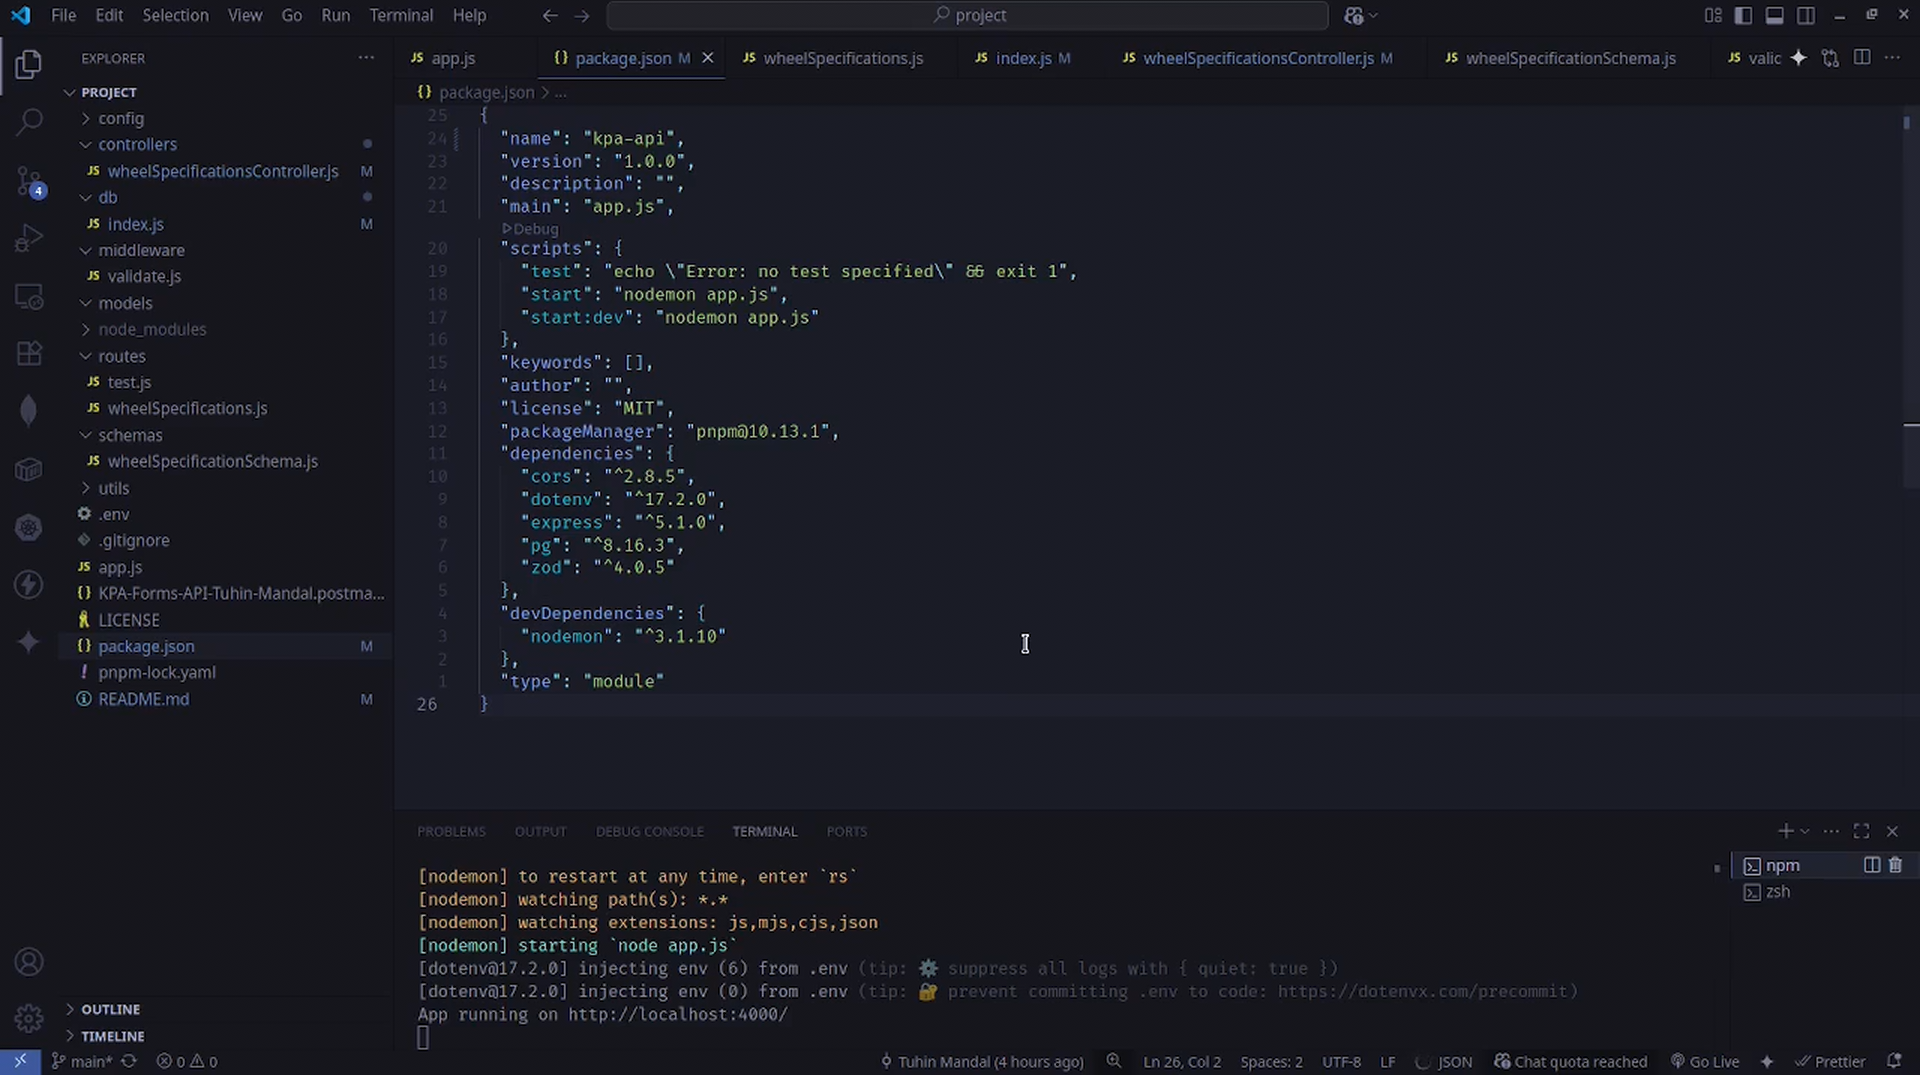
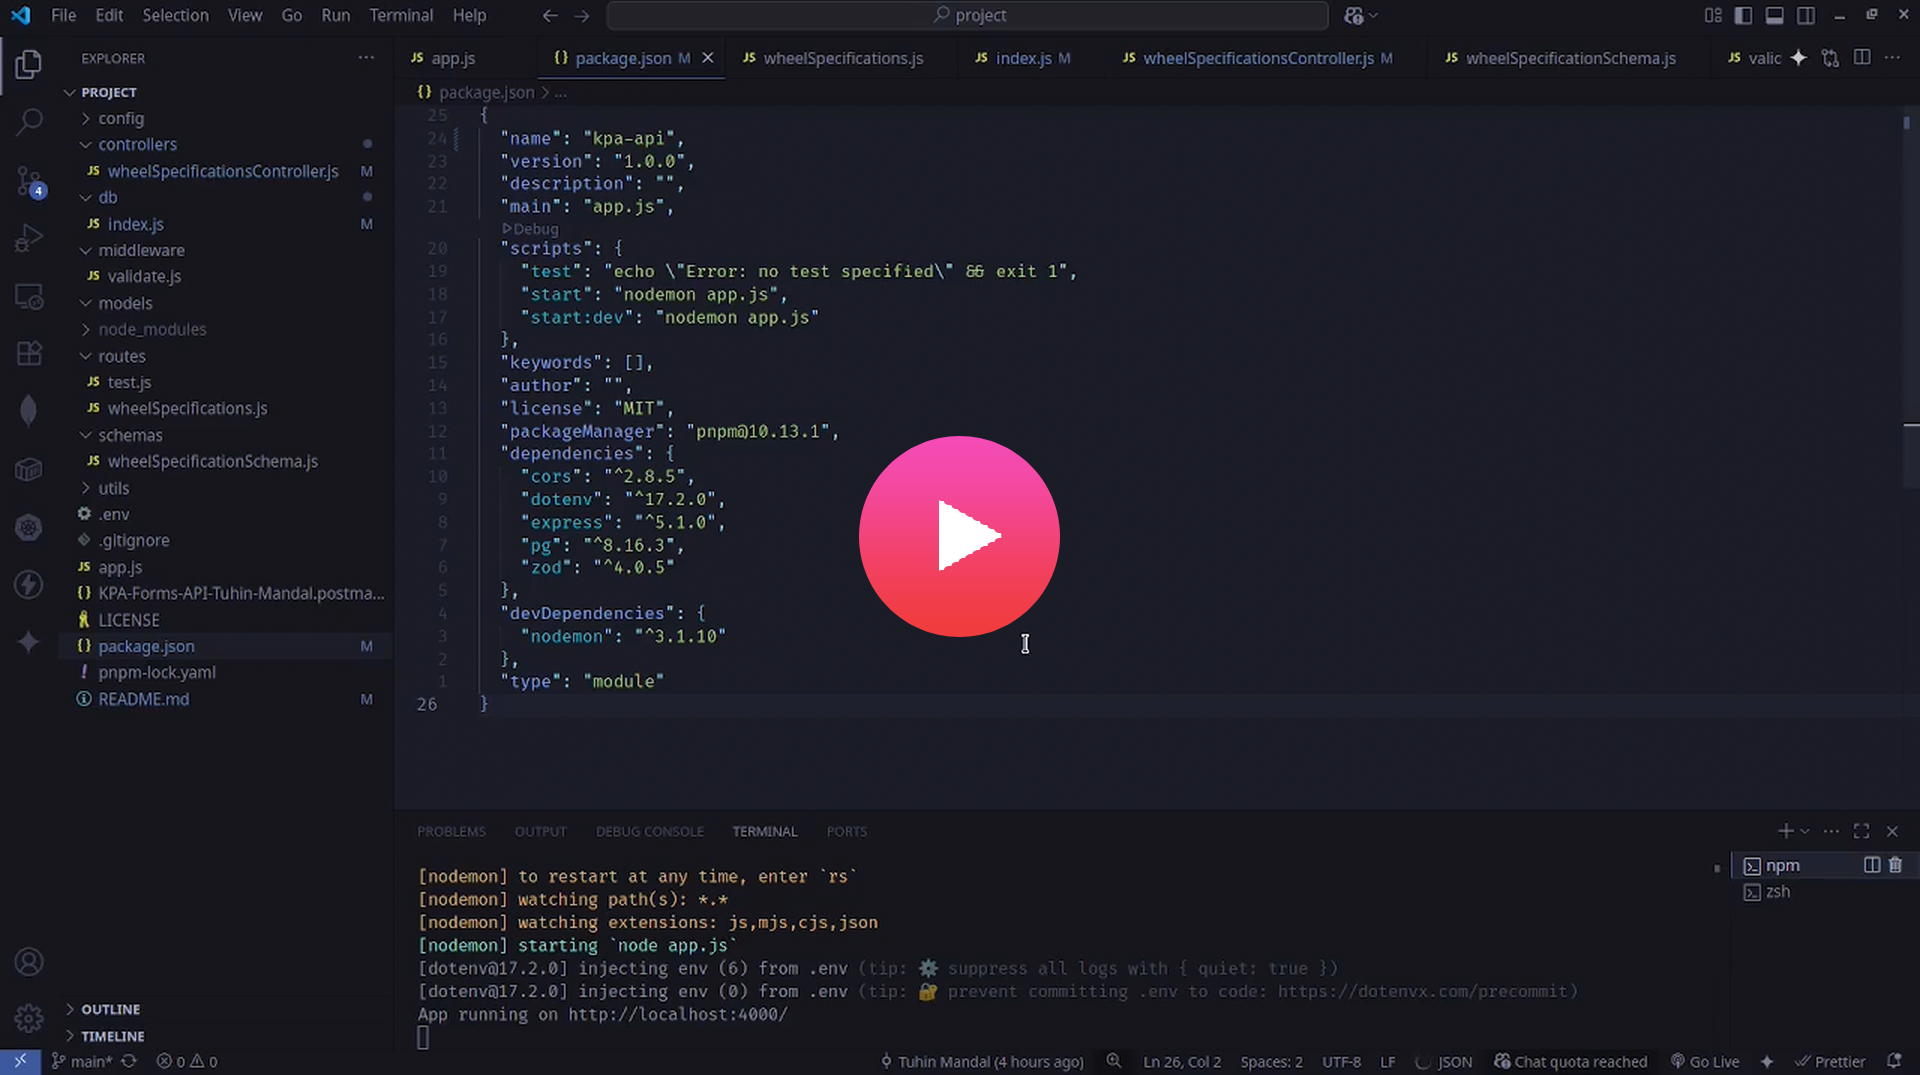
docs(readme): Finalize and polish project documentation
Completes the project's `README.md` file, ensuring it is comprehensive,
professional, and provides all necessary information for evaluation.

This final version includes:
- Detailed setup and installation instructions.
- A clear overview of the technology stack and architecture.
- Explanations for key design decisions and best practices.
- A section clarifying the frontend integration testing approach.
- An embedded video demonstration for a quick project overview.

Changed region(s): [[0.4375, 0.3991, 0.5625, 0.614]]

diff --git a/README.md b/README.md
@@ -58,6 +58,22 @@ This approach allowed me to focus on delivering a high-quality, well-tested, and
 
 ---
 
+## Video Demonstration
+
+A short screen recording has been prepared to walk through the project's features, architecture, and testing process. The video covers:
+
+- A brief overview of the project structure and technology stack.
+- A live demonstration of the API endpoints using Postman for both success and error cases.
+- Direct database verification using `psql` to show data persistence.
+
+**Click the thumbnail below to watch the video:**
+
+<a href="https://drive.google.com/drive/folders/1WAKn2-Wl_clfxzkCQ5Q1LONoMfU8-L_o?usp=drive_link" target="_blank">
+  <img src="assets/demo-thumbnail.png" alt="Video Demonstration of KPA Forms API" width="600"/>
+</a>
+
+---
+
 ## Key Features & Best Practices
 
 This project goes beyond the basic requirements to include several features that demonstrate a commitment to high-quality code.
@@ -165,7 +181,7 @@ You can import this collection into Postman to test all the implemented endpoint
 
 ## Running the Application
 
-To start the development server with hot-reloading (thanks to `nodemon`), run:
+To start the development server with auto-reloading (thanks to `nodemon`), run:
 
 ```bash
 pnpm start:dev
